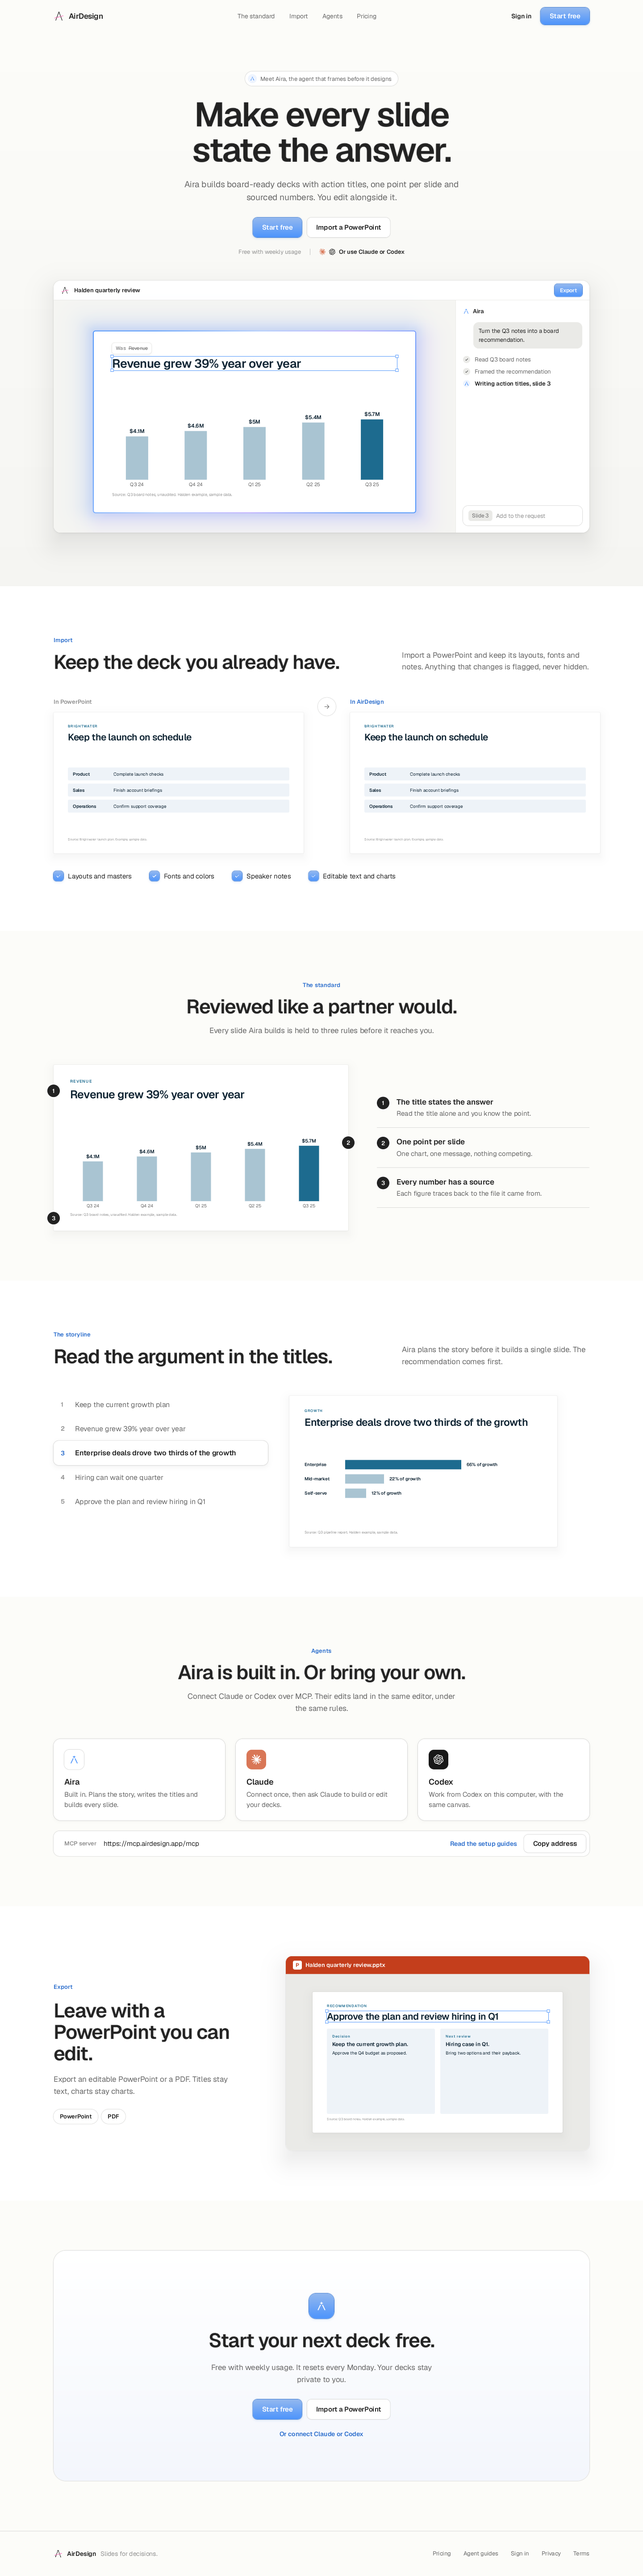
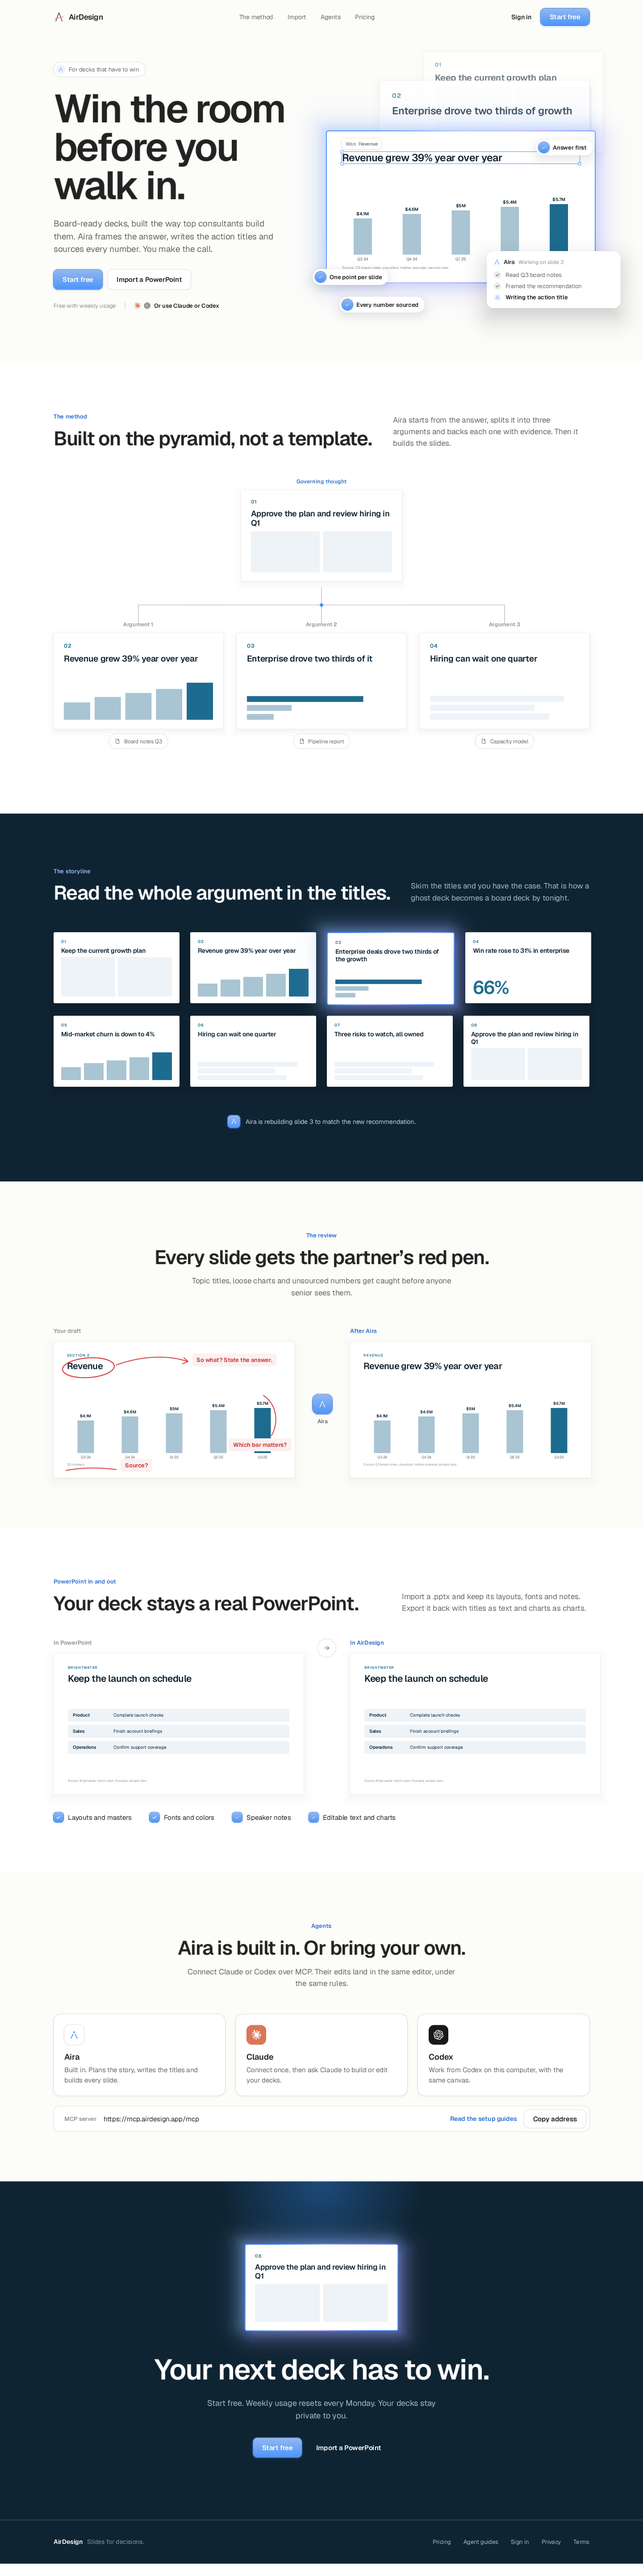
Landing page v2: bolder hero collage, pyramid, storyline wall, red pen review, dark close

diff --git a/docs/design/v0.1/components.md b/docs/design/v0.1/components.md
@@ -135,12 +135,13 @@ In the editor toolbar: Agent and Design, height 28, inside a 32 high group. The 
 
 ## Landing page parts (S11.01)
 
-Built from the same tokens and parts as the product. Research and concept notes are in [research/](research/).
+The landing page always takes the bolder visual option: it is for high-paid experts whose decks must win buy-in or a deal. It uses the same tokens and parts as the product. Research and concept notes are in [research/](research/).
 
-- **Product frame:** the real editor in a 1200 wide window (radius 16): deck bar with Export, a slide with the working glow and a Figma-style title selection, a "Was" tag showing the old title struck through, and Aira's panel with the request, activity steps (done in gray, current with the spark) and the composer.
-- **Compare pair:** two slides at the same scale with labels "In PowerPoint" and "In AirDesign", an arrow between them, and a row of kept items (blue check tiles).
-- **Review pins:** dark numbered circles placed on the slide edge, matched to numbered notes on the right.
-- **Story spine:** numbered action titles; the selected one is a white card and its slide shows beside it.
-- **Agent cards:** logo tile, name and one line for Aira, Claude and Codex, then the MCP address row with Copy address.
-- **Section header:** blue eyebrow, 44 semibold title, one lead line.
-- Buttons are 44 high on the page, 38 in the nav. Sample companies are Halden and Brightwater, always labeled as sample data.
+- **Hero collage:** editorial headline on the left ("Win the room before you walk in.", 88 semibold, -3.4 tracking). On the right a layered stack: two faded back slides, the front slide with the working glow, a Figma-style title selection and a "Was" tag with the old title struck through, floating review chips (blue check tiles: Answer first, One point per slide, Every number sourced) and a floating Aira card with activity steps.
+- **Pyramid:** governing thought slide on top, three argument slides below joined by gray connector lines with a blue node, an evidence pill under each.
+- **Storyline wall:** full-bleed navy (#0F2433) section, eight mini slides in two rows with action titles; the slide being rebuilt carries the working glow; one Aira status line below.
+- **Red pen:** "Your draft" slide with red pen marks (ellipse, arrow, underline) and red notes ("So what? State the answer.", "Source?", "Which bar matters?"), an Aira tile in the middle, then "After Aira". Red marks are the only red outside errors.
+- **Compare pair:** the same slide in PowerPoint and in AirDesign, then kept items with blue check tiles.
+- **Agent cards and MCP row:** Aira, Claude, Codex with real marks, then the MCP address with Copy address.
+- **Closing:** navy with a radial blue light, one glowing slide, "Your next deck has to win.", primary and ghost buttons; navy footer.
+- Mini slides: 16:9, number in teal, title in navy, one simple exhibit. Sample companies Halden and Brightwater, always labeled as sample data.
